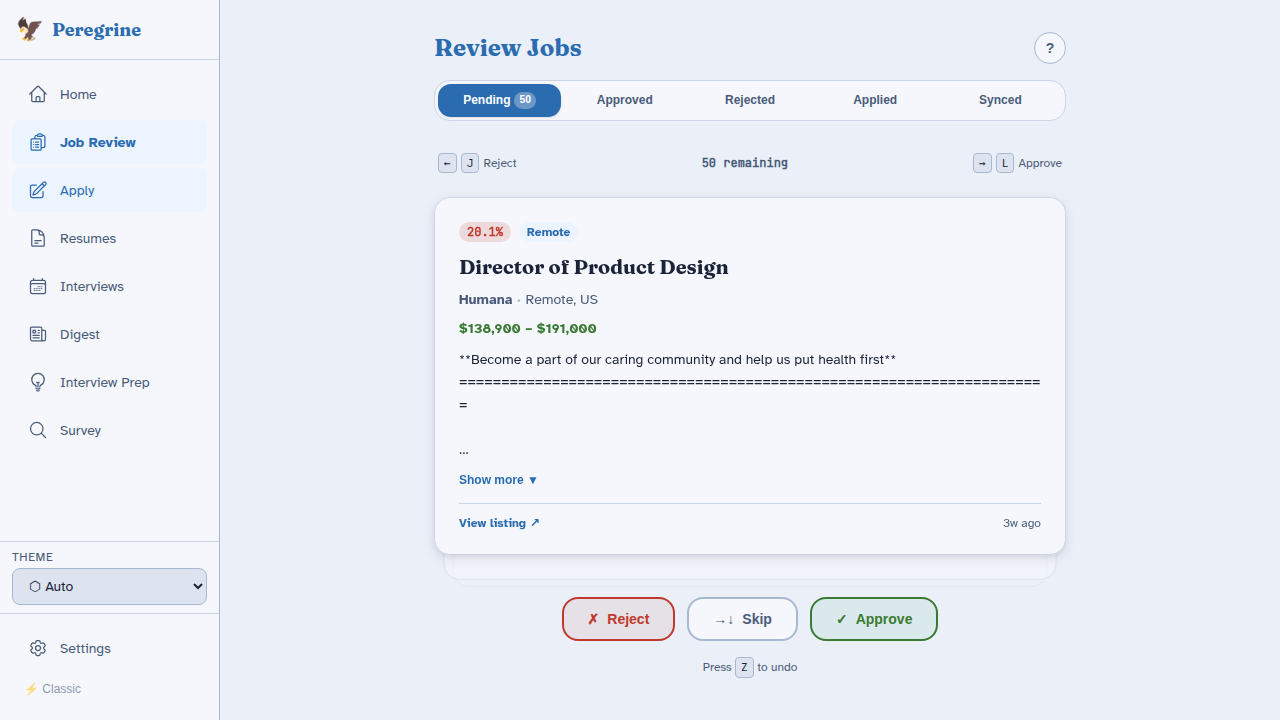
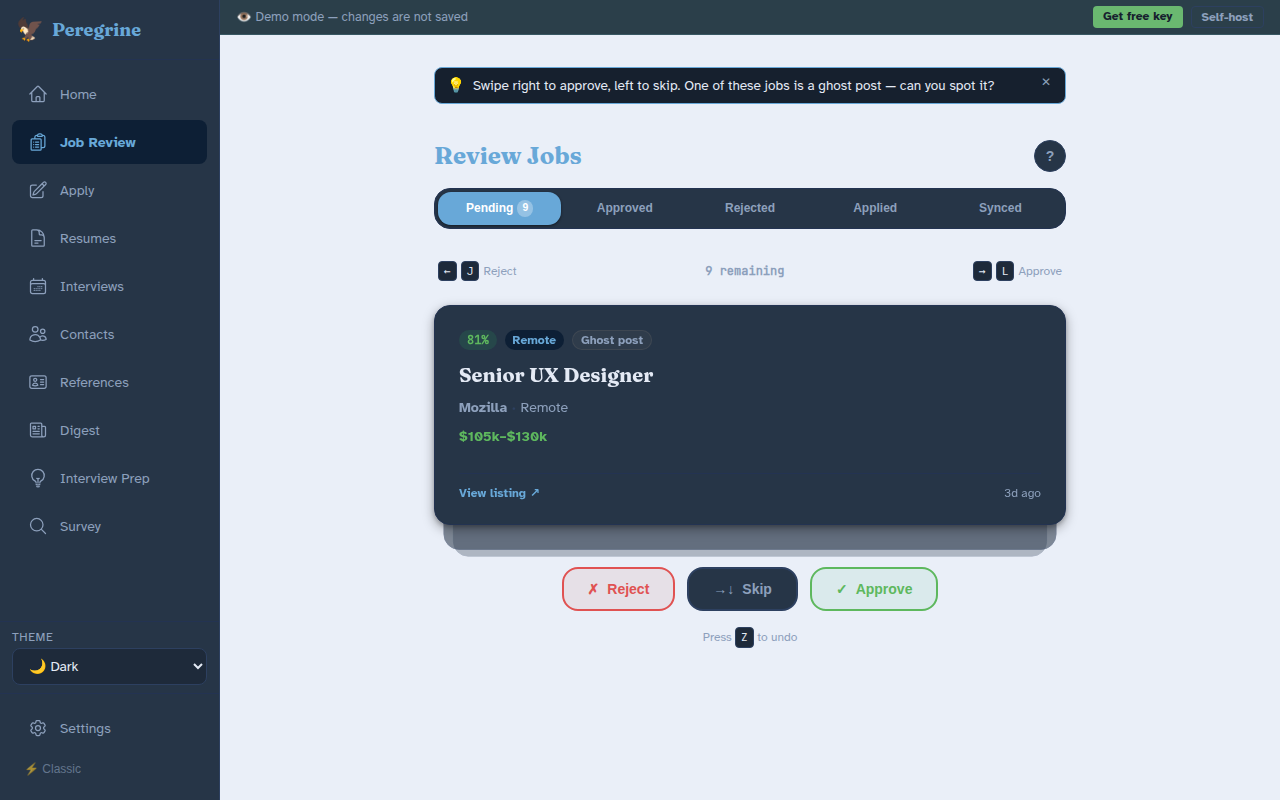
docs: add screenshots and animated GIF to README
Six new screenshots (dashboard, card-stack review with approve/reject tint,
apply workspace, interviews kanban) plus an animated GIF of the swipe-review
flow. Adds demo link above the fold.

diff --git a/README.md b/README.md
@@ -10,6 +10,23 @@
 
 > *"Tools for the jobs that the system made hard on purpose."*
 
+**[Try the live demo](https://demo.circuitforge.tech/peregrine)** — no account required, nothing saved.
+
+---
+
+![Job review — swipe right to approve, left to skip](docs/screenshots/02-review-swipe.gif)
+
+<table>
+<tr>
+<td><img src="docs/screenshots/01-dashboard.png" alt="Dashboard with pipeline stats"/></td>
+<td><img src="docs/screenshots/04-interviews.png" alt="Interview kanban with recruiter emails attached"/></td>
+</tr>
+<tr>
+<td><img src="docs/screenshots/03-apply.png" alt="Apply workspace with AI cover letter draft"/></td>
+<td><img src="docs/screenshots/02-review.png" alt="Job review card with match score and ghost-post detection"/></td>
+</tr>
+</table>
+
 ---
 
 Job search is a second job nobody hired you for.
